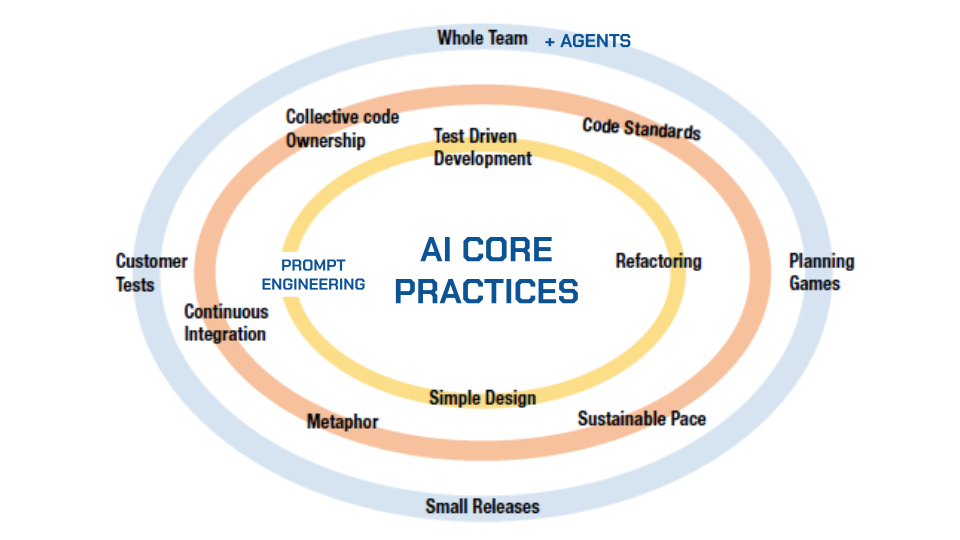
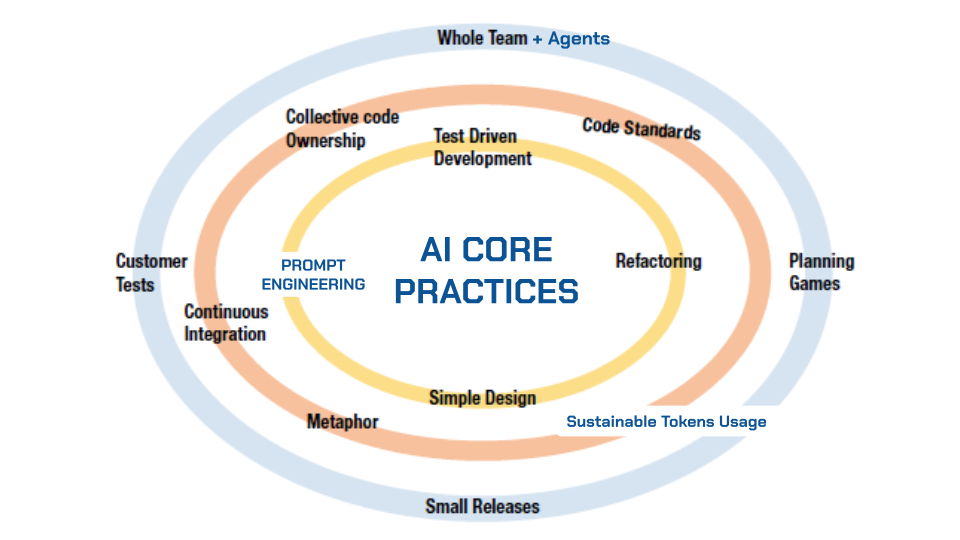
better slides (not finished though)

Changed region(s): [[0.5625, 0.7407, 0.8125, 0.8296], [0.5625, 0.0593, 0.6562, 0.0889]]

diff --git a/slides/markdown/4c.md b/slides/markdown/4c.md
@@ -15,48 +15,53 @@
 
 --
 
-## C2: CONTEXT  
+## C2: CONTEXT - phase 1
 
-
-### Shift 1: SOLID → CUPID (OOP Improvement)
+###  SOLID → CUPID 
 - 🔧 Single Responsibility → **Unix Philosophy**
 - 🏠 Open/Closed → **Composable**
-- 🔮 Complex Priority → **Predictable**
-- 🆔 Old Syntax → **Idiomatic**
 - 🚀 **Domain-based**: Types model domain concepts clearly
 
 --
 
-## C2: CONTEXT  
+## 🛠 C3: CONCRETE PRACTICE - phase 1
+**Goal**: respect the Harness Rules
 
-### Shift 2: OOP → Functional Programming
-- ƛ Single function → **Either-ish monad**
+
+- Refactor existing code to conform to CUPID standards
+- Use the supplied harness to verify compliance
+
+
+--
+
+## C2: CONTEXT : phase2
+
+###   →  complete CUPID
+
+- 🔮 Complex Syntax (if, throw) → **Predictable** → **ADT**
+- 🆔 OO Syntax → **FP Idiomatic**
+
+--
+
+
+## C2: CONTEXT : phase2
+
+###  OOP → more Functional Programming
+- ƛ Single function → **Either-ish monad** (OneOf)
 - 🔒 Mutable state → **Immutable data**
 - 🎯 Imperative → **Pattern matching**
 - ✨ Object methods → **Pure functions**
 
 --
 
-## 🛠 C3: CONCRETE PRACTICE
-**Goal**: Hands-on application
 
-### Practice Session 1: CUPID 
-- Refactor existing code to conform to CUPID standards
-- Use the supplied harness to verify compliance
 
---
+## 🛠 C3: CONCRETE PRACTICE - phase 2
+**Goal**: respect the other Harness Rules
 
-### Practice Session 2: towards Functional Programming 
-- Implement Either-ish monad
-- Pattern matching refactor
-- Ensure immutability
-- Create pure functions
+ - describe the rules
 
---
 
-### Practice Session 3: Integration 
-- Create custom rules
-- Apply to own codebase
 
 --
 
@@ -67,6 +72,14 @@
 - **Learning Harvest**: What surprised you? What resonates?
 - **Before/After Comparison**: What improved most?
 - **Action Plan**: Tomorrow, this week, this month
+
+
+--
+
+## 🫦 C4: POST-CONCLUSION
+
+<img src="img/CUPID FP.png" alt="AI XP" style="width: 150%; height: auto;">
+
 
 --
 

diff --git a/slides/markdown/xp-ddd.md b/slides/markdown/xp-ddd.md
@@ -1,10 +1,10 @@
 ### eXtreme Programming
-<img src="img/XP.png" alt="Alt text" style="width: 150%; height: auto;">
+<img src="img/XP.png" alt="XP" style="width: 150%; height: auto;">
 
 --
 
 ### Agentic Programming
-<img src="img/AI XP CORE.png" alt="Alt text" style="width: 150%; height: auto;">
+<img src="img/AI XP CORE.png" alt="AI XP" style="width: 150%; height: auto;">
 
 --
 
